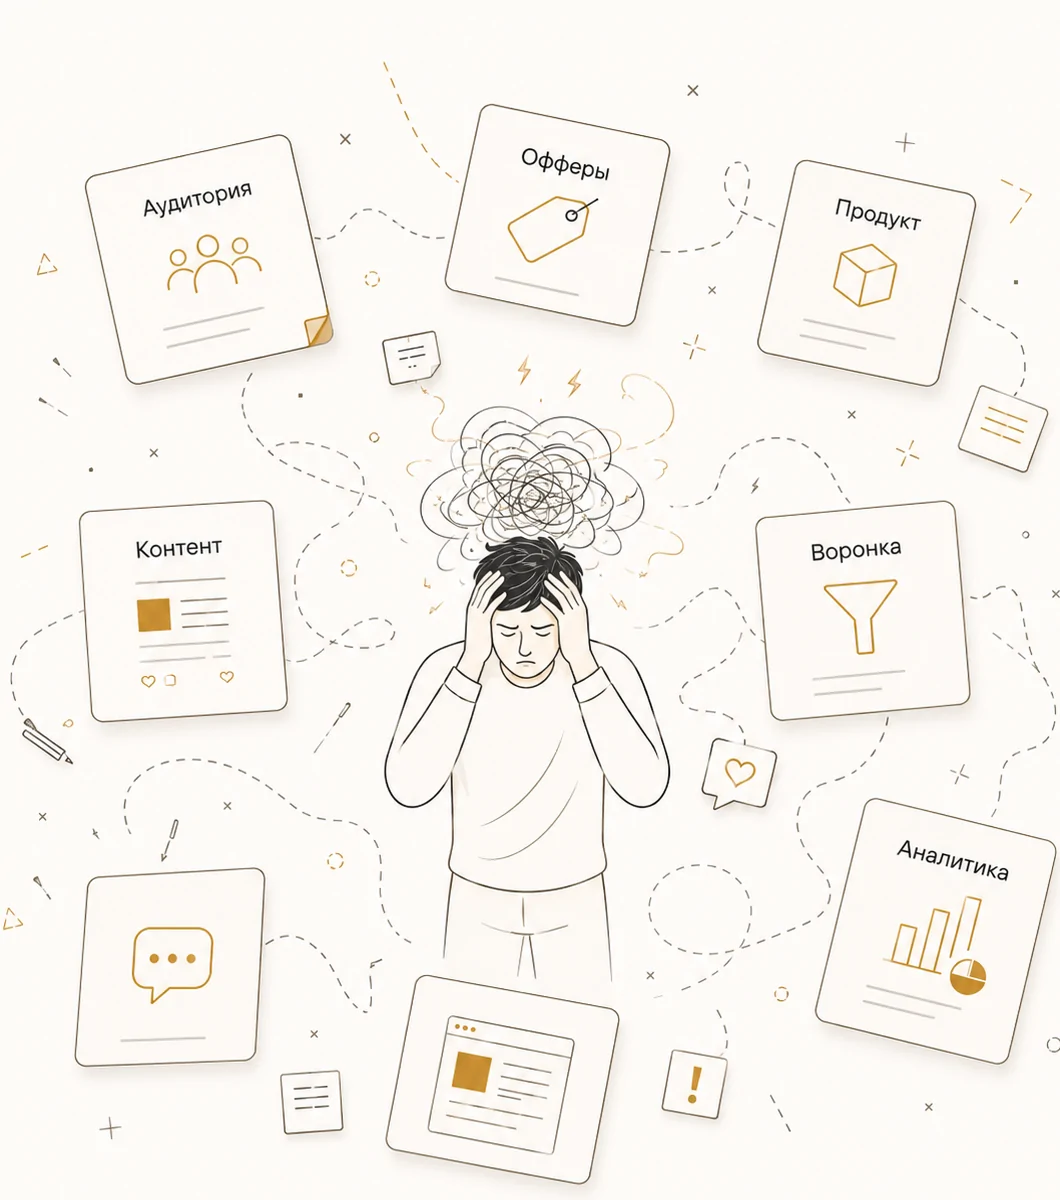
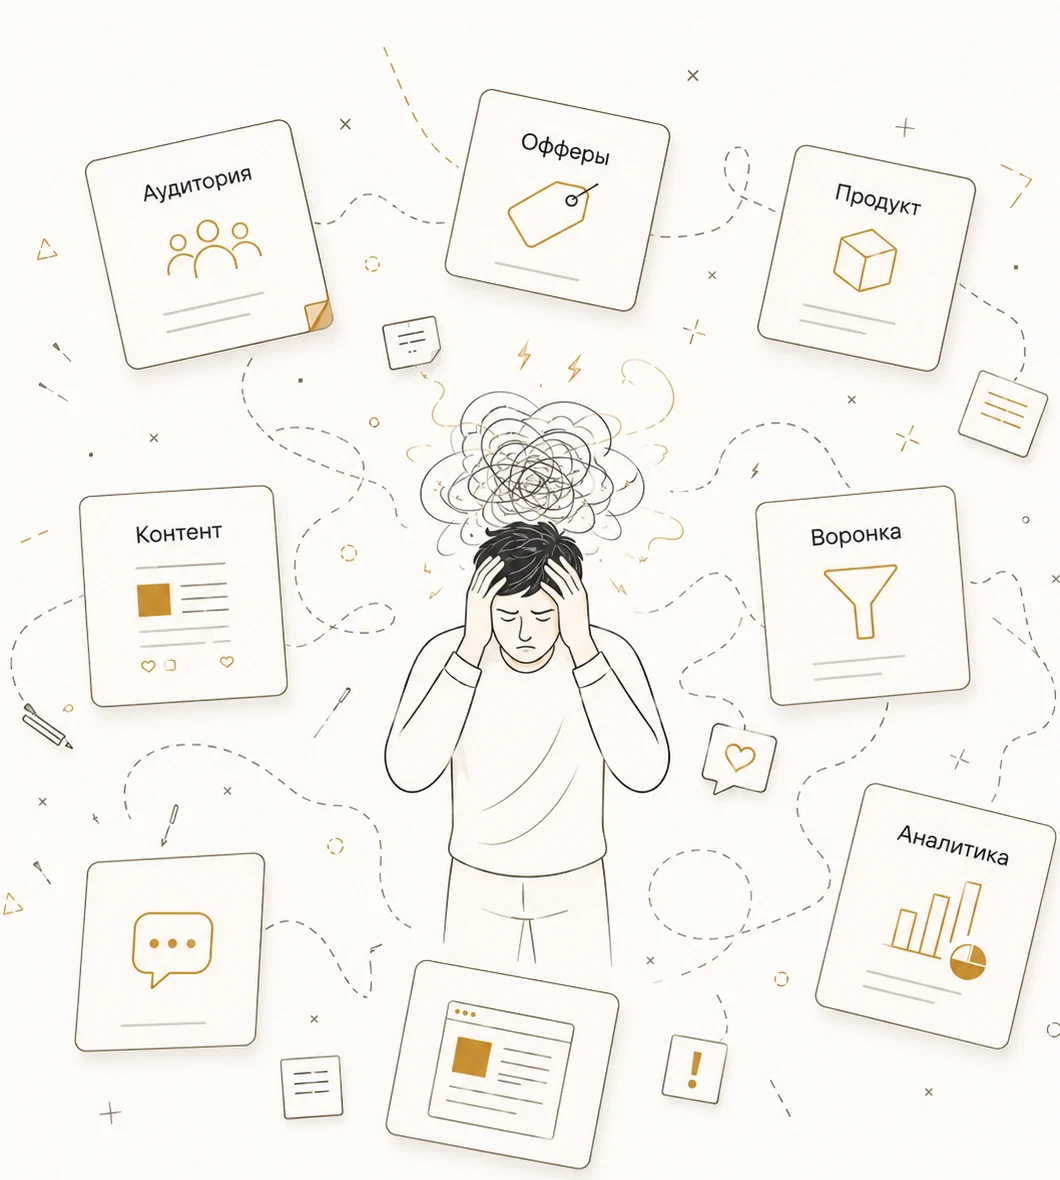
refine: polish old model landing section

diff --git a/frontend/src/config/landing-content.ts b/frontend/src/config/landing-content.ts
@@ -88,7 +88,7 @@ export const landingContent = {
   oldModel: {
     eyebrow: 'Старая модель',
     title: 'Как эксперт запускал маркетинг последние 10–15 лет',
-    description: 'Раньше у эксперта было два пути: разбираться во всём самостоятельно или собирать команду. В первом случае он тратил месяцы на инструменты и технические задачи. Во втором — деньги и силы на поиск, постановку задач и постоянную координацию специалистов.',
+    description: 'Раньше у эксперта было два пути: самостоятельно разбираться в маркетинге и технических инструментах или собирать команду. В первом случае он тратил месяцы на обучение и настройку сервисов. Во втором — деньги и силы на поиск специалистов, постановку задач и постоянную координацию.',
     columns: [
       {
         number: '1',
@@ -106,13 +106,18 @@ export const landingContent = {
       },
       {
         number: '3',
+        label: 'Общий результат',
         title: 'К чему приводили оба пути',
-        items: ['Долгий запуск', 'Высокие расходы', 'Много ручной координации', 'Потеря контекста между людьми и сервисами', 'Стратегия, воронка и контент развивались отдельно', 'Все ключевые решения замыкались на владельце проекта'],
+        items: ['Долгий запуск', 'Высокие расходы', 'Постоянная ручная координация', 'Потеря контекста между людьми и сервисами', 'Все ключевые решения замыкались на владельце проекта'],
         result: true,
-        summary: 'Эксперт оставался главным связующим звеном и был вынужден держать весь маркетинг в голове.',
+        summary: 'В итоге весь маркетинг всё равно держался на эксперте и собирался из разрозненных решений.',
       },
     ],
-    overloadCaption: 'перегрузка, прокрастинация, саботаж и откладывание важных действий',
+    overloadCaption: {
+      before: 'Когда всё держится на одном человеке, появляются',
+      highlight: 'перегрузка',
+      after: 'прокрастинация и откладывание важных действий.',
+    },
     transition: {
       title: 'Но теперь у эксперта появился третий путь',
       link: 'Посмотреть, как меняется рынок',

diff --git a/frontend/src/pages/Platform/PlatformLanding.module.css b/frontend/src/pages/Platform/PlatformLanding.module.css
@@ -721,7 +721,7 @@
   grid-template-columns: minmax(0, 1.2fr) minmax(340px, 0.8fr);
   gap: clamp(48px, 6vw, 96px);
   align-items: end;
-  margin-bottom: 38px;
+  margin-bottom: 50px;
 }
 
 .oldModelIntro .eyebrow {
@@ -748,8 +748,8 @@
 
 .oldModelContent {
   display: grid;
-  grid-template-columns: minmax(0, 1.15fr) minmax(380px, 0.85fr);
-  gap: clamp(32px, 4vw, 64px);
+  grid-template-columns: minmax(0, 1.1fr) minmax(400px, 0.9fr);
+  gap: clamp(32px, 3.5vw, 56px);
   align-items: stretch;
 }
 
@@ -765,7 +765,7 @@
   box-sizing: border-box;
   border: 1px solid #e7e2d8;
   border-radius: 16px;
-  padding: 26px 26px 28px;
+  padding: 24px 24px 26px;
   background: #fff;
   box-shadow: 0 8px 28px rgba(17, 17, 17, 0.025);
 }
@@ -782,7 +782,7 @@
   height: 38px;
   align-items: center;
   justify-content: center;
-  margin-bottom: 20px;
+  margin-bottom: 18px;
   border-radius: 50%;
   background: #c8a04b;
   color: #111;
@@ -795,13 +795,28 @@
   color: #fff;
 }
 
+.oldModelResultLabel {
+  display: inline-flex;
+  margin: 7px 0 18px 12px;
+  color: #8d6824;
+  font-size: 12px;
+  font-weight: 800;
+  line-height: 1.3;
+  text-transform: uppercase;
+  vertical-align: top;
+}
+
 .oldModelCard h3 {
-  margin: 0 0 18px;
+  margin: 0 0 16px;
   color: #111;
   font-size: 21px;
   font-weight: 700;
   line-height: 1.2;
   letter-spacing: 0;
+}
+
+.oldModelResultCard h3 {
+  font-size: 23px;
 }
 
 .oldModelList {
@@ -833,8 +848,8 @@
 
 .oldModelResultSummary {
   margin: 24px 0 0;
-  border-top: 1px solid rgba(169, 125, 45, 0.25);
-  padding-top: 20px;
+  border-left: 3px solid #c8a04b;
+  padding: 2px 0 2px 18px;
   color: #111;
   font-size: 15px;
   font-weight: 700;
@@ -844,7 +859,7 @@
 .oldModelVisualColumn {
   display: flex;
   width: 100%;
-  max-width: 560px;
+  max-width: 600px;
   min-width: 0;
   justify-self: end;
   flex-direction: column;
@@ -857,37 +872,35 @@
   margin: 0;
   overflow: hidden;
   border: 1px solid #e7e2d8;
-  border-radius: 24px;
-  padding: 12px;
+  border-radius: 20px;
+  padding: 6px;
   background: #fff;
-  box-shadow:
-    0 24px 60px rgba(17, 17, 17, 0.07),
-    0 6px 18px rgba(17, 17, 17, 0.04);
+  box-shadow: 0 18px 48px rgba(17, 17, 17, 0.06);
 }
 
 .oldModelIllustration {
   display: block;
   width: 100%;
   height: auto;
-  border-radius: 16px;
+  border-radius: 15px;
 }
 
 .oldModelOverloadCaption {
   display: grid;
-  grid-template-columns: 42px minmax(0, 1fr);
-  gap: 14px;
+  grid-template-columns: 48px minmax(0, 1fr);
+  gap: 16px;
   align-items: center;
   margin-top: 14px;
   border: 1px solid rgba(200, 160, 75, 0.45);
   border-radius: 14px;
-  padding: 18px 20px;
+  padding: 22px;
   background: #fcfbf8;
-  color: #111;
+  color: #2b2925;
 }
 
 .oldModelOverloadIcon {
-  width: 42px;
-  height: 42px;
+  width: 48px;
+  height: 48px;
 }
 
 .oldModelOverloadCaption p {

diff --git a/frontend/src/pages/Platform/sections/LandingSections.tsx b/frontend/src/pages/Platform/sections/LandingSections.tsx
@@ -225,6 +225,9 @@ function OldModelCard({ column }: { column: OldModelColumn }) {
   return (
     <article className={`${styles.oldModelCard} ${column.result ? styles.oldModelResultCard : ''}`}>
       <span className={styles.oldModelCardNumber} aria-hidden="true">{column.number}</span>
+      {'label' in column && column.label && (
+        <span className={styles.oldModelResultLabel}>{column.label}</span>
+      )}
       <h3>{column.title}</h3>
       <ul className={styles.oldModelList}>
         {column.items.map((item) => <li key={item}>{item}</li>)}
@@ -262,7 +265,9 @@ function OldMarketingModelSection() {
             <div className={styles.oldModelOverloadCaption}>
               <AssetImage asset={LANDING_ICONS.context} alt="" className={styles.oldModelOverloadIcon} />
               <p>
-                <strong>Отсюда</strong> — {landingContent.oldModel.overloadCaption}
+                {landingContent.oldModel.overloadCaption.before}{' '}
+                <strong>{landingContent.oldModel.overloadCaption.highlight}</strong>,{' '}
+                {landingContent.oldModel.overloadCaption.after}
               </p>
             </div>
           </div>

diff --git a/frontend/src/config/landing-assets.ts b/frontend/src/config/landing-assets.ts
@@ -55,5 +55,5 @@ export const LANDING_BACKGROUNDS = {
 
 export const LANDING_MEDIA = {
   heroDashboard: asset('hero-dashboard.webp', 2000, 1063),
-  oldModelExpertOverload: asset('old-model-expert-overload.webp', 1060, 1200),
+  oldModelExpertOverload: asset('old-model-expert-overload.webp', 1060, 1180),
 } as const;
